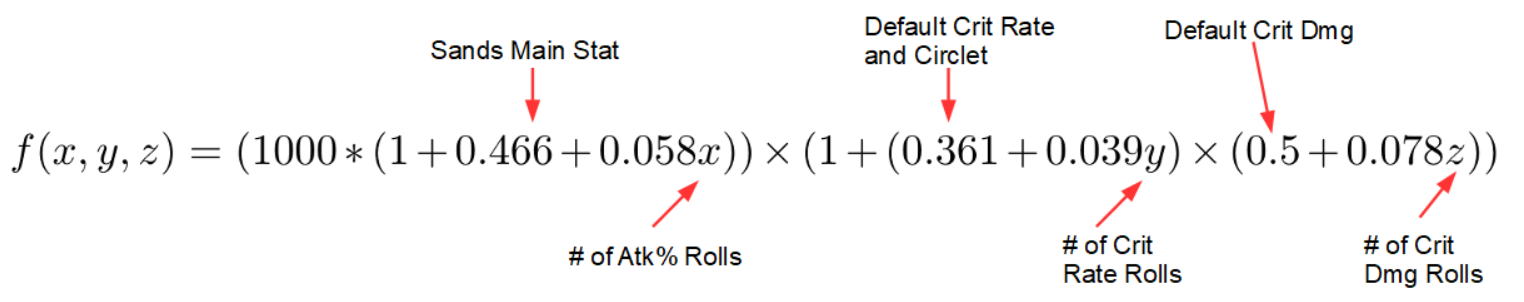
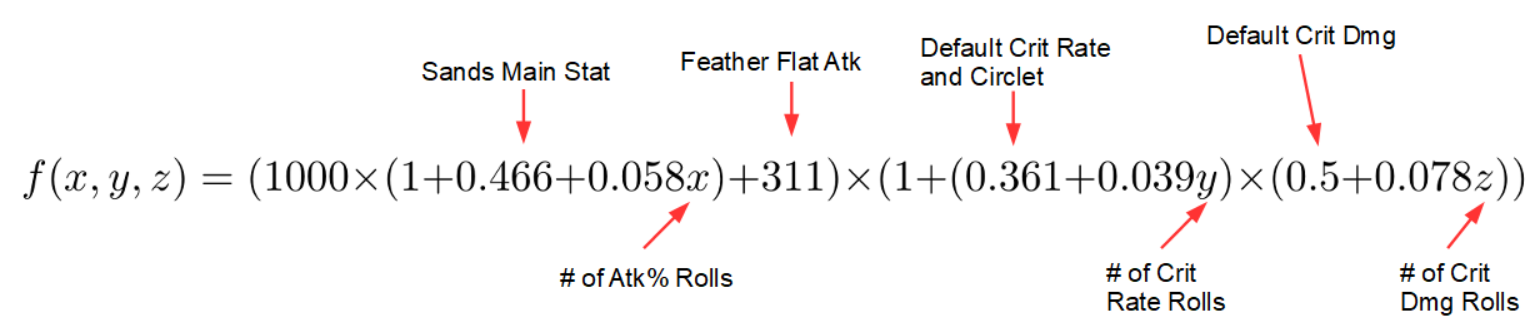
Fixing typo in optimization function

diff --git a/assets/GiArtiOpti/LateXEquations/GI_Equationstex.tex b/assets/GiArtiOpti/LateXEquations/GI_Equationstex.tex
@@ -28,7 +28,7 @@
 
 
 \begin{equation}
-	f(x,y,z) = (1000*(1 + 0.466 + 0.058x))\times(1 + (0.361 + 0.039y)\times(0.5 + 0.078z))
+	f(x,y,z) = (1000\times(1 + 0.466 + 0.058x) + 311)\times(1 + (0.361 + 0.039y)\times(0.5 + 0.078z))
 \end{equation}
 
 \end{document}
